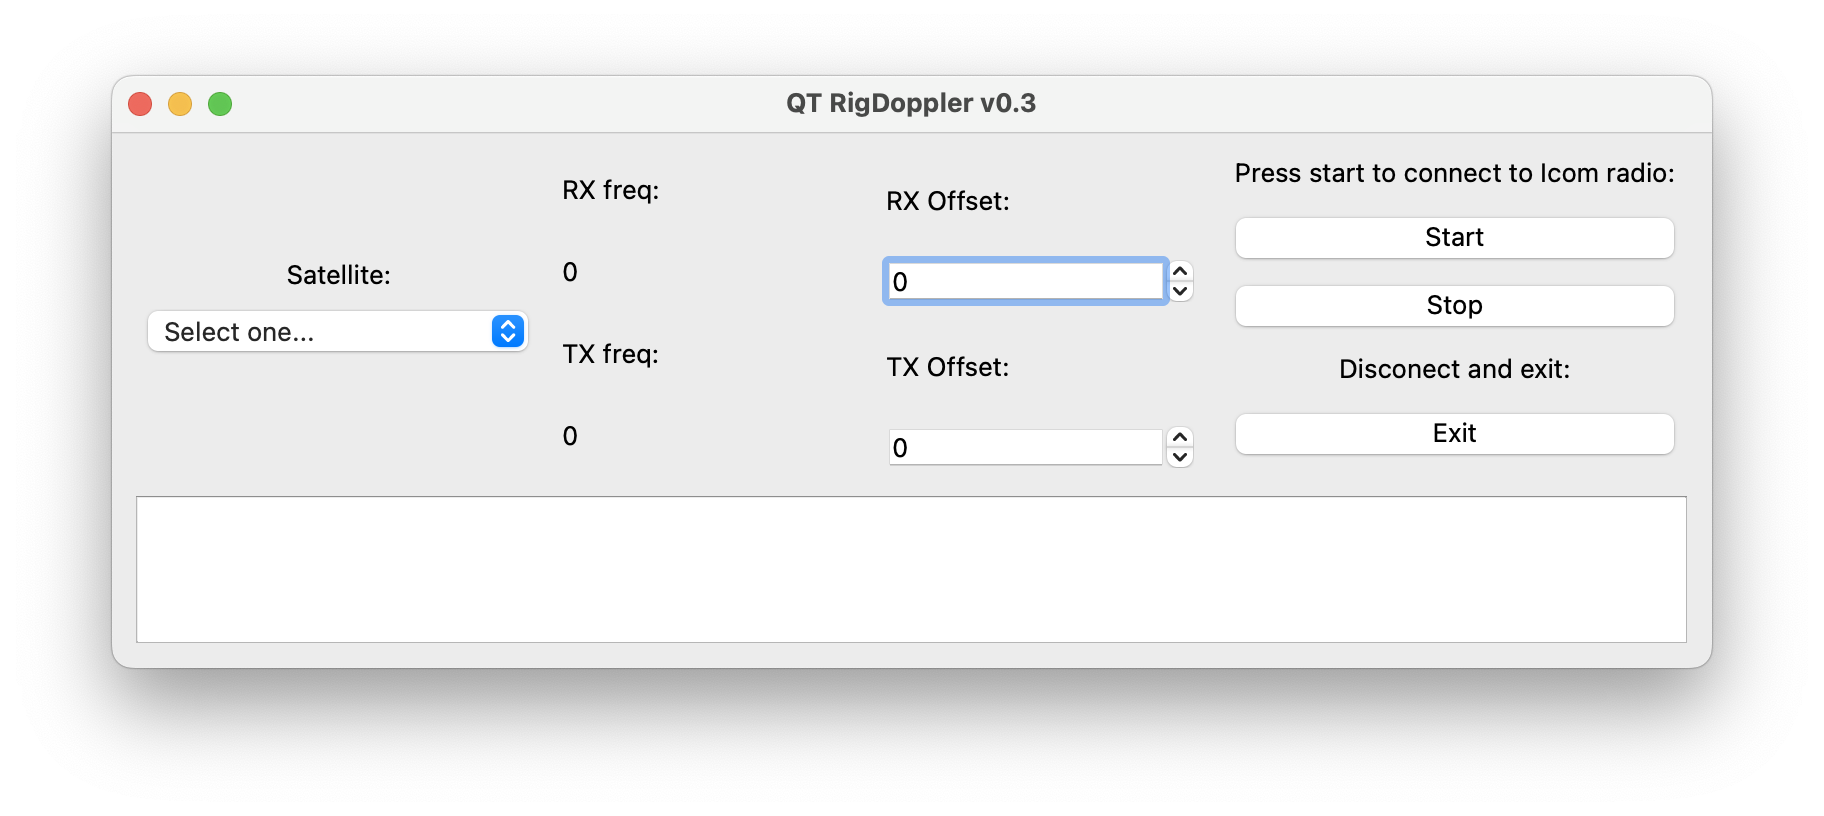
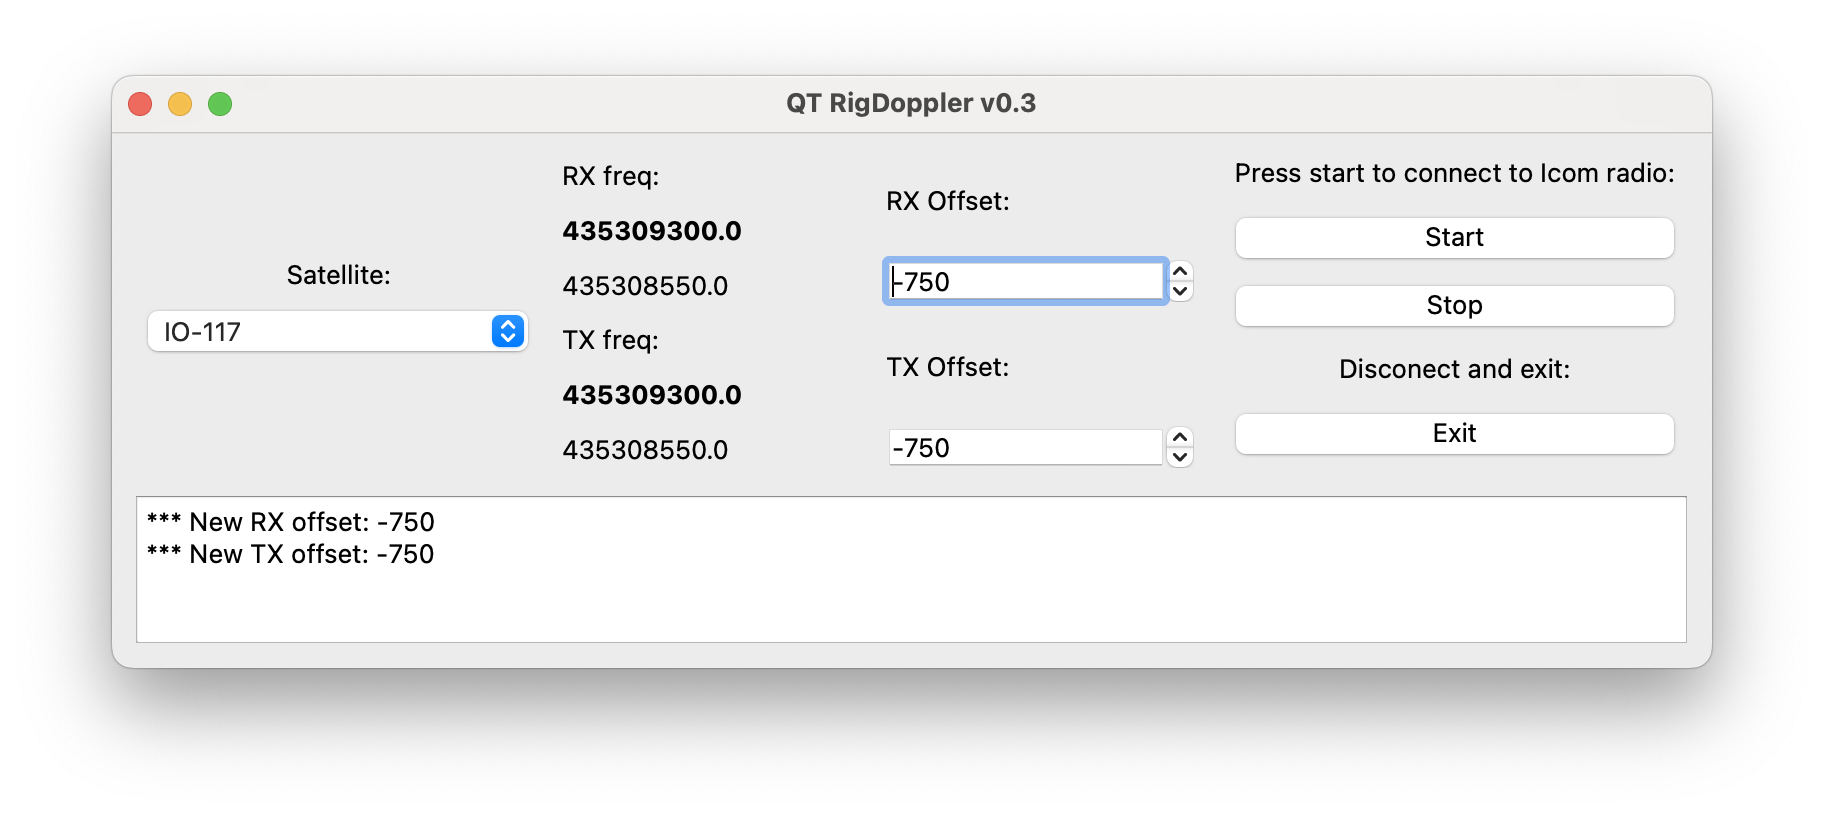
Added labels for frecuencies on satellite
Showing frequencies both locally (radio) and on satellite
Solved bug with Stop/Start operation, now is working perfectly
Both labels for frequencies are now float numbers

diff --git a/QTrigdoppler.py b/QTrigdoppler.py
@@ -81,8 +81,8 @@ for (each_key, each_val) in configur.items('offset_profiles'):
     # Format SATNAME:RXoffset,TXoffset
     useroffsets[each_val.split(':')[0]] = each_val.split(':')[1]
 
-F0=0
-I0=0
+F0=0.0
+I0=0.0
 f_cal = 0
 i_cal = 0
 
@@ -152,19 +152,28 @@ class MainWindow(QMainWindow):
         self.combo1.addItems(satlist)
         combo_layout.addWidget(self.combo1)
 
+        myFont=QFont()
+        myFont.setBold(True)
+
         # 1x Label: RX freq
         self.rxfreqtitle = QLabel("RX freq:")
         labels_layout.addWidget(self.rxfreqtitle)
 
-        self.rxfreq = QLabel("0")
+        self.rxfreq = QLabel("0.0")
+        self.rxfreq.setFont(myFont)
         labels_layout.addWidget(self.rxfreq)
+        self.rxfreq_onsat = QLabel("0.0")
+        labels_layout.addWidget(self.rxfreq_onsat)
 
         # 1x Label: TX freq
         self.txfreqtitle = QLabel("TX freq:")
         labels_layout.addWidget(self.txfreqtitle)
 
-        self.txfreq = QLabel("0")
+        self.txfreq = QLabel("0.0")
+        self.txfreq.setFont(myFont)
         labels_layout.addWidget(self.txfreq)
+        self.txfreq_onsat = QLabel("0.0")
+        labels_layout.addWidget(self.txfreq_onsat)
 
         # 1x Label: RX Offset
         self.rxoffsetboxtitle = QLabel("RX Offset:")
@@ -337,6 +346,10 @@ class MainWindow(QMainWindow):
         self.Startbutton.setEnabled(True)
     
     def init_worker(self):
+        global SEMAPHORE
+
+        if SEMAPHORE == False:
+            SEMAPHORE = True
         # Pass the function to execute
         self.LogText.append("Connected to Rigctld on {addr}:{port}".format(addr=ADDRESS,port=PORT))
         self.LogText.append("Tracking: {sat_name}".format(sat_name=self.my_satellite.amsatname))
@@ -532,7 +545,9 @@ class MainWindow(QMainWindow):
     
     def recurring_timer(self):
         self.rxfreq.setText(str(float(self.my_satellite.F)))
+        self.rxfreq_onsat.setText(str(F0))
         self.txfreq.setText(str(float(self.my_satellite.I)))
+        self.txfreq_onsat.setText(str(I0))
 
 class WorkerSignals(QObject):
     finished = pyqtSignal()

diff --git a/README.md b/README.md
@@ -35,8 +35,6 @@ AmsatNames.txt and dopler.sqf are wide and well known files used by PCSat32 soft
     1) Improve error handling, detect and correct bugs. 
     2) Solve the limitations.
     3) Let me know if you have something else in mind.
-    4) Add offset profiles menu, so would be really easier to operate SSB sats
-    5) On SSB satellites, read RX frequency so phone satellites could be operated moving in the transpoder
     
 ## Basic Configuration:
     1) Edit *config.ini* file and set your coordinates and altitude in [qth] section:
@@ -96,9 +94,11 @@ amsatnames is just an auxiliary file son NORAD_ID satellites identifiers could b
         address = localhost
         port = 4532
 
-    3) User defined RX and TX offsets values per satellite can de defined in the [offset_profiles] section. Format is the following:
-        - Label "satoffset" followed by incremental number, per each profile: satoffset1, satoffset2, satoffset3, etc.
-        - Satellite name, as found in doppler.sqf file, followed by ":"
+    3) User defined RX and TX offsets values per satellite can de added in the [offset_profiles] section. 
+        
+        Format is the following:
+        - Label "satoffset" followed by incremental number and the symbol "=", per each profile: satoffset1=, satoffset2=, satoffset3=, etc.
+        - Satellite name, as found in doppler.sqf file, followed by ":" and
         - RX offset (Hertz) and TX offset, separated by comma ","
 
         Exmaple: satoffset1 = IO-117:-750,-750
